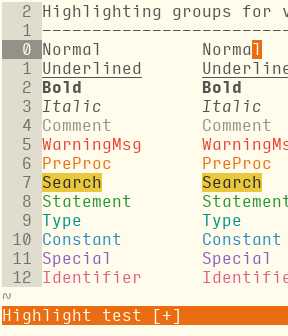
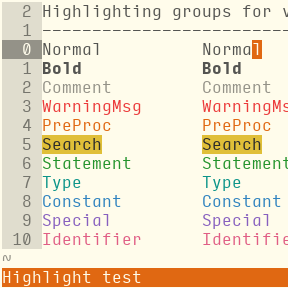
overhaul

Changed region(s): [[0.0, 0.0, 1.0, 1.0], [0.1562, 0.0, 1.0, 0.875]]

diff --git a/README.md b/README.md
@@ -10,6 +10,10 @@
 <td align="center"><strong>carbonized-<br />dark</strong></td></tr>
 </table>
 
+<blockquote>
+  <p>pictured font: <a href="http://input.fontbureau.com/">Input Mono</a></p>
+</blockquote>
+
 <h2 id="setup">setup</h2>
 
 <h3 id="installation">installation</h3>
@@ -60,8 +64,8 @@ call plug#end()
   <li>8 theme-distinct <strong>base colours</strong></li>
   <li>8 standard <strong>accent colours</strong> (shared by members of the “nightsense theme family”) for syntax highlighting
     <ul>
-      <li>hue selection at the scale of 1/12 (30°) colour wheel intervals, followed by 1/12 subinterval adjustments</li>
-      <li>value and saturation tuned for light backgrounds, then saturation lowered for dark backgrounds</li>
+      <li>hues were selected at the scale of 1/12 (30°) colour wheel intervals, followed by 1/12 subinterval adjustments</li>
+      <li>value and saturation were tuned for light backgrounds, then saturation was lowered for dark backgrounds</li>
     </ul>
   </li>
 </ul>
@@ -77,67 +81,67 @@ call plug#end()
   <tbody>
     <tr>
       <td style="text-align: right"><img src="http://www.colorhexa.com/2b2b2b.png" height="24" width="42" /> <code class="highlighter-rouge">2b2b2b</code> </td>
-      <td style="text-align: center"><img src="http://www.colorhexa.com/eb403a.png" height="24" width="42" /> <code class="highlighter-rouge">eb403a</code> </td>
-      <td style="text-align: left"><img src="http://www.colorhexa.com/eb6663.png" height="24" width="42" /> <code class="highlighter-rouge">eb6663</code></td>
+      <td style="text-align: center"><img src="http://www.colorhexa.com/eb3a3a.png" height="24" width="42" /> <code class="highlighter-rouge">eb3a3a</code> </td>
+      <td style="text-align: left"><img src="http://www.colorhexa.com/eb6363.png" height="24" width="42" /> <code class="highlighter-rouge">eb6363</code></td>
     </tr>
     <tr>
       <td style="text-align: right"><img src="http://www.colorhexa.com/403f3d.png" height="24" width="42" /> <code class="highlighter-rouge">403f3d</code> </td>
-      <td style="text-align: center"><img src="http://www.colorhexa.com/eb6d13.png" height="24" width="42" /> <code class="highlighter-rouge">eb6d13</code> </td>
-      <td style="text-align: left"><img src="http://www.colorhexa.com/eb8f4e.png" height="24" width="42" /> <code class="highlighter-rouge">eb8f4e</code></td>
+      <td style="text-align: center"><img src="http://www.colorhexa.com/e06812.png" height="24" width="42" /> <code class="highlighter-rouge">e06812</code> </td>
+      <td style="text-align: left"><img src="http://www.colorhexa.com/e0894a.png" height="24" width="42" /> <code class="highlighter-rouge">e0894a</code></td>
     </tr>
     <tr>
       <td style="text-align: right"><img src="http://www.colorhexa.com/545451.png" height="24" width="42" /> <code class="highlighter-rouge">545451</code> </td>
-      <td style="text-align: center"><img src="http://www.colorhexa.com/ebc83b.png" height="24" width="42" /> <code class="highlighter-rouge">ebc83b</code> </td>
-      <td style="text-align: left"><img src="http://www.colorhexa.com/ebcc4e.png" height="24" width="42" /> <code class="highlighter-rouge">ebcc4e</code></td>
+      <td style="text-align: center"><img src="http://www.colorhexa.com/e0bf38.png" height="24" width="42" /> <code class="highlighter-rouge">e0bf38</code> </td>
+      <td style="text-align: left"><img src="http://www.colorhexa.com/e0c34a.png" height="24" width="42" /> <code class="highlighter-rouge">e0c34a</code></td>
     </tr>
     <tr>
       <td style="text-align: right"><img src="http://www.colorhexa.com/75746c.png" height="24" width="42" /> <code class="highlighter-rouge">75746c</code> </td>
-      <td style="text-align: center"><img src="http://www.colorhexa.com/259433.png" height="24" width="42" /> <code class="highlighter-rouge">259433</code> </td>
-      <td style="text-align: left"><img src="http://www.colorhexa.com/63946a.png" height="24" width="42" /> <code class="highlighter-rouge">63946a</code></td>
+      <td style="text-align: center"><img src="http://www.colorhexa.com/25942e.png" height="24" width="42" /> <code class="highlighter-rouge">25942e</code> </td>
+      <td style="text-align: left"><img src="http://www.colorhexa.com/639467.png" height="24" width="42" /> <code class="highlighter-rouge">639467</code></td>
     </tr>
     <tr>
       <td style="text-align: right"><img src="http://www.colorhexa.com/949288.png" height="24" width="42" /> <code class="highlighter-rouge">949288</code> </td>
-      <td style="text-align: center"><img src="http://www.colorhexa.com/009488.png" height="24" width="42" /> <code class="highlighter-rouge">009488</code> </td>
-      <td style="text-align: left"><img src="http://www.colorhexa.com/56948f.png" height="24" width="42" /> <code class="highlighter-rouge">56948f</code></td>
+      <td style="text-align: center"><img src="http://www.colorhexa.com/0c9489.png" height="24" width="42" /> <code class="highlighter-rouge">0c9489</code> </td>
+      <td style="text-align: left"><img src="http://www.colorhexa.com/4a948e.png" height="24" width="42" /> <code class="highlighter-rouge">4a948e</code></td>
     </tr>
     <tr>
       <td style="text-align: right"><img src="http://www.colorhexa.com/bfbdb0.png" height="24" width="42" /> <code class="highlighter-rouge">bfbdb0</code> </td>
-      <td style="text-align: center"><img src="http://www.colorhexa.com/308bbf.png" height="24" width="42" /> <code class="highlighter-rouge">308bbf</code> </td>
-      <td style="text-align: left"><img src="http://www.colorhexa.com/609cbf.png" height="24" width="42" /> <code class="highlighter-rouge">609cbf</code></td>
+      <td style="text-align: center"><img src="http://www.colorhexa.com/3083bf.png" height="24" width="42" /> <code class="highlighter-rouge">3083bf</code> </td>
+      <td style="text-align: left"><img src="http://www.colorhexa.com/6097bf.png" height="24" width="42" /> <code class="highlighter-rouge">6097bf</code></td>
     </tr>
     <tr>
       <td style="text-align: right"><img src="http://www.colorhexa.com/e0ddce.png" height="24" width="42" /> <code class="highlighter-rouge">e0ddce</code> </td>
-      <td style="text-align: center"><img src="http://www.colorhexa.com/8c60bf.png" height="24" width="42" /> <code class="highlighter-rouge">8c60bf</code> </td>
-      <td style="text-align: left"><img src="http://www.colorhexa.com/9e80bf.png" height="24" width="42" /> <code class="highlighter-rouge">9e80bf</code></td>
+      <td style="text-align: center"><img src="http://www.colorhexa.com/8760bf.png" height="24" width="42" /> <code class="highlighter-rouge">8760bf</code> </td>
+      <td style="text-align: left"><img src="http://www.colorhexa.com/9a80bf.png" height="24" width="42" /> <code class="highlighter-rouge">9a80bf</code></td>
     </tr>
     <tr>
       <td style="text-align: right"><img src="http://www.colorhexa.com/fffceb.png" height="24" width="42" /> <code class="highlighter-rouge">fffceb</code> </td>
-      <td style="text-align: center"><img src="http://www.colorhexa.com/e05e89.png" height="24" width="42" /> <code class="highlighter-rouge">e05e89</code> </td>
-      <td style="text-align: left"><img src="http://www.colorhexa.com/e082a1.png" height="24" width="42" /> <code class="highlighter-rouge">e082a1</code></td>
+      <td style="text-align: center"><img src="http://www.colorhexa.com/e05e85.png" height="24" width="42" /> <code class="highlighter-rouge">e05e85</code> </td>
+      <td style="text-align: left"><img src="http://www.colorhexa.com/e0829e.png" height="24" width="42" /> <code class="highlighter-rouge">e0829e</code></td>
     </tr>
   </tbody>
 </table>
 
-<p><img src="http://www.colorhexa.com/eb403a.png" height="24" width="42" />
+<p><img src="http://www.colorhexa.com/eb3a3a.png" height="24" width="42" />
 <strong>Red</strong>, the colour of alarm, is used for <strong>warning elements</strong>, including error messages, misspellings, and diff deletions.</p>
 
-<p><img src="http://www.colorhexa.com/eb6d13.png" height="24" width="42" />
+<p><img src="http://www.colorhexa.com/e06812.png" height="24" width="42" />
 <strong>Orange</strong> is the colour of fire, which serves as a preliminary to many practical activities. Orange is therefore used for <strong>preliminary elements</strong>, such as preprocessor commands (which prepare data to be handled by another program), incremental searching (that is, a search term in the process of being typed), titles, and miscapitalized words.</p>
 
-<p><img src="http://www.colorhexa.com/ebc83b.png" height="24" width="42" />
+<p><img src="http://www.colorhexa.com/e0bf38.png" height="24" width="42" />
 <strong>Yellow</strong>, the classic highlighting colour, is applied to elements that are not warnings yet should draw attention with high visibility. These <strong>highlighted elements</strong> include search results, task tags (<code class="highlighter-rouge">TODO</code>, <code class="highlighter-rouge">FIXME</code>…), and diff changes.</p>
 
-<p><img src="http://www.colorhexa.com/259433.png" height="24" width="42" />
-<strong>Green</strong>, the colour that says “go ahead, proceed with the task at hand”, is used for positive <strong>action elements</strong>, such as statements (if/then, while/do, case…), mode indicators (insert, visual…), vim user prompts, and diff additions.</p>
+<p><img src="http://www.colorhexa.com/25942e.png" height="24" width="42" />
+<strong>Green</strong>, the colour that says “go ahead, proceed with the task at hand”, is used for <strong>action elements</strong>, such as statements (if/then, while/do, case…), mode indicators (insert, visual…), vim user prompts, and diff additions.</p>
 
-<p><img src="http://www.colorhexa.com/009488.png" height="24" width="42" />
+<p><img src="http://www.colorhexa.com/0c9489.png" height="24" width="42" />
 <strong>Teal</strong> is named after the “common teal”, a kind of duck, thus connecting this colour with the concept of “species”, which is a means of classifying life into very specific types. Teal is therefore used for specifying <strong>object types</strong>, such as data type (boolean, integer, string…) or storage class (static, volatile…), as well as mislocalized words (that is, words that are not misspelled but of the wrong type, namely a foreign locale type).</p>
 
-<p><img src="http://www.colorhexa.com/308bbf.png" height="24" width="42" />
+<p><img src="http://www.colorhexa.com/3083bf.png" height="24" width="42" />
 <strong>Blue</strong>, a colour of calm stability, is used for <strong>constants</strong>, which come in the form of boolean values, integers, floating-point numbers, characters, and strings.</p>
 
-<p><img src="http://www.colorhexa.com/8c60bf.png" height="24" width="42" />
+<p><img src="http://www.colorhexa.com/8760bf.png" height="24" width="42" />
 <strong>Purple</strong>, often associated with rare purple dyes historically produced for special works of art, is used for <strong>special text</strong>, including special characters (standalone or within syntax units), vim tags, and debugging statements. Rarely-used words are also marked, allowing the writer to consider whether such a specially uncommon word is appropriate.</p>
 
-<p><img src="http://www.colorhexa.com/e05e89.png" height="24" width="42" />
+<p><img src="http://www.colorhexa.com/e05e85.png" height="24" width="42" />
 <strong>Pink</strong>, the colour of spring blossoms, is used for <strong>object names</strong>, including the names of variables and functions. To code is to bring countless objects blossoming into existence as one types their names.</p>
